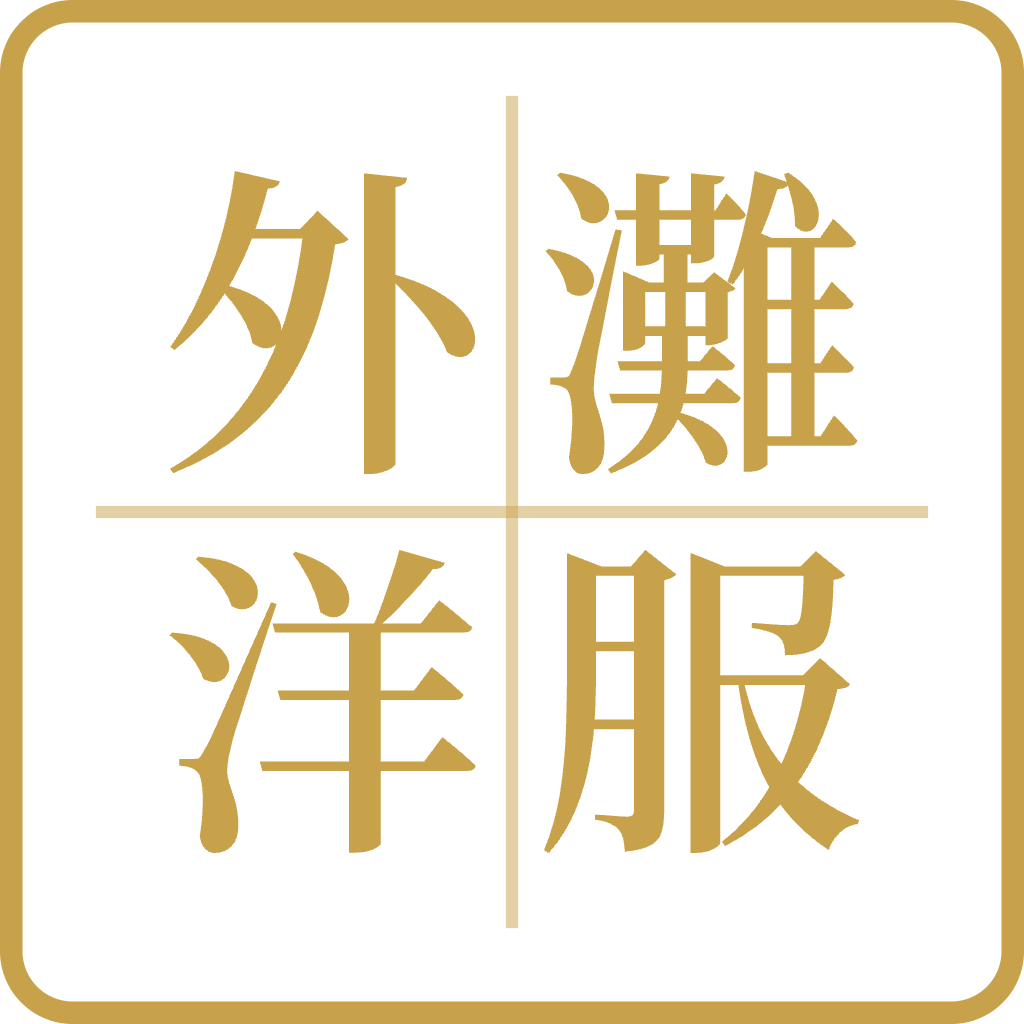
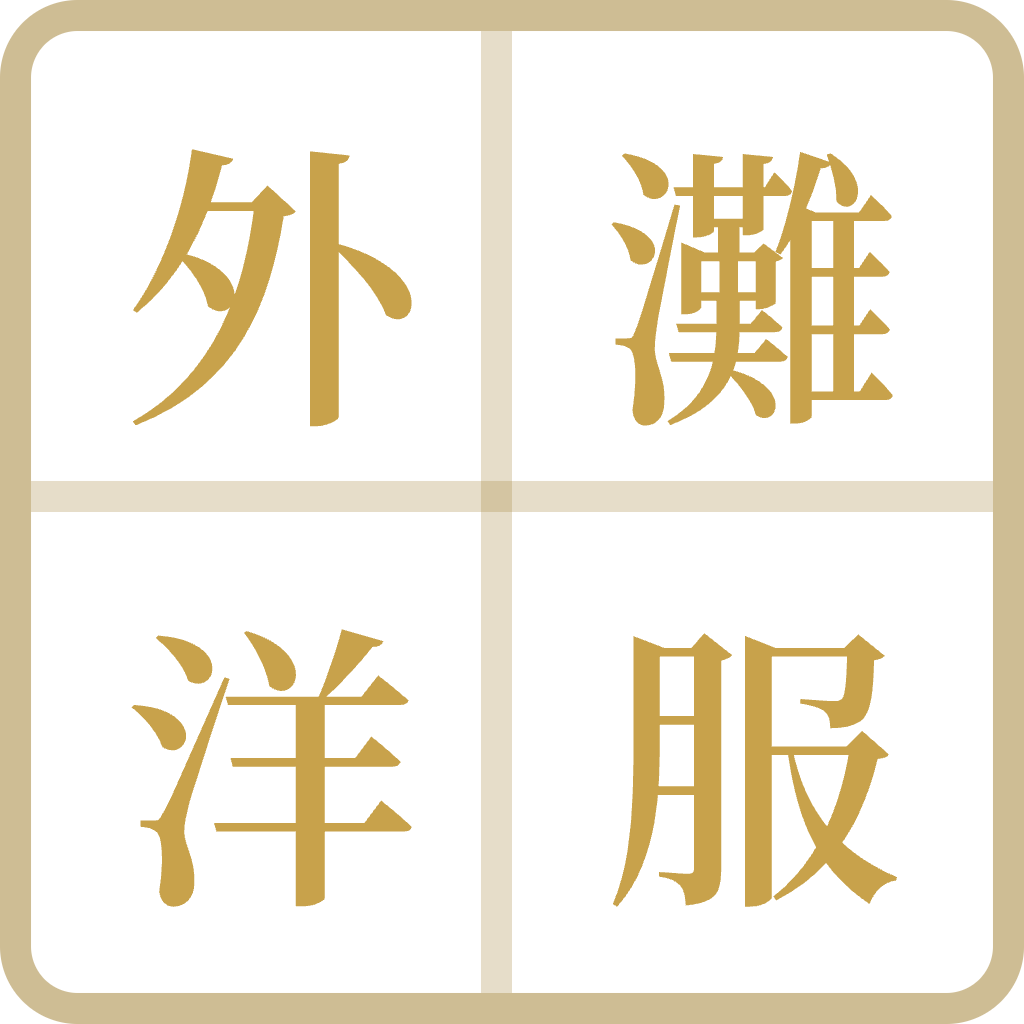
Rebuild seal marks from the header; fix two mobile issues
Seal: regenerate every seal-bearing asset from the site header's own markup
and CSS (.adb-mark) rather than the earlier redraw, so padding, corner
radius, rule weight and character size are identical to the site. Ratios are
taken straight from the header's 33px box: rule 1/33, radius 2/33, glyph
9.6/33, with the 2x2 grid filling the box inside the border and each glyph
centred on its line box. The redraw had sized glyphs at 0.80 of their cell
against the header's 0.619, which is why the characters crowded the frame.
Rebuilt: seal-mark-512, seal-mark-circle-512, seal-1024, lockup-2000 and
og-image. These stay on the original gold #c8a24b and ground #2a1015 so the
brand assets match the site; the brighter pair remains on the icon family
alone, where contrast at 16 and 32px matters.

Mobile, verified at 375px:
- The Heritage maps were display:none below 640px, so the section lost its
  maps entirely on phones. They now render, centred above the reading panel
  and sized to the band between the heading and the copy (China 112x149).
  Confirmed China visible on steps 1-3 and Montreal on step 4, with positive
  clearance head->map 13px, map->panel 4px, panel->stepper 3px, and no
  horizontal overflow.
- The About carousel frame was inset and short, so the photograph sat in a
  small window with the section's cream showing around it. It now runs edge
  to edge and is taller: 335x416 -> 375x480 at 375px.

diff --git a/assets/styles.css b/assets/styles.css
@@ -471,7 +471,22 @@ h3{font-size:clamp(1.4rem,2.6vw,1.9rem)}
   .heritage__panel{width:min(58%,34rem)}
 }
 @media (max-width:640px){
-  .heritage__map{display:none}
+  /* keep the maps on mobile: centre them above the reading panel rather than
+     hiding them, since they carry the whole point of the section */
+  /* sized to the band between the heading and the reading panel so the
+     line-art never sits under the copy */
+  .heritage__map--china{
+    top:29%;left:50%;right:auto;width:min(31%,7rem);
+    transform:translate(-50%,-50%)}
+  #heritage[data-step="3"] .heritage__map--china{
+    opacity:0;transform:translate(-50%,-50%) translateX(-40px)}
+  .heritage__map--mtl{
+    top:29%;left:50%;right:auto;width:min(46%,11rem);
+    transform:translate(-50%,-50%) translateX(40px)}
+  #heritage[data-step="3"] .heritage__map--mtl{
+    opacity:1;transform:translate(-50%,-50%)}
+  /* the china map's legend would collide with the eyebrow at this size */
+  .heritage__legend--china{display:none}
   /* let the canvas fill the stage so the panel can bottom-anchor against it */
   .heritage__frame{align-items:stretch}
   .heritage__canvas{height:100%;margin-top:0}
@@ -832,6 +847,12 @@ h3{font-size:clamp(1.4rem,2.6vw,1.9rem)}
 @media (max-width:860px){
   .adb-about__grid{grid-template-columns:1fr}
   .adb-how__grid{grid-template-columns:1fr 1fr}
+  /* the carousel frame was short and inset, so the photo sat in a small
+     landscape window with the section's cream showing above and below.
+     Run it edge to edge and make it properly tall. */
+  .adb-about__frame{
+    min-height:clamp(30rem,125vw,40rem);
+    margin-inline:calc(-1 * clamp(1.25rem,5vw,4rem))}
   /* stack front · card · back and drop the connector line */
   .adb-clstage{grid-template-columns:1fr;gap:2rem}
   .adb-clline{display:none}
